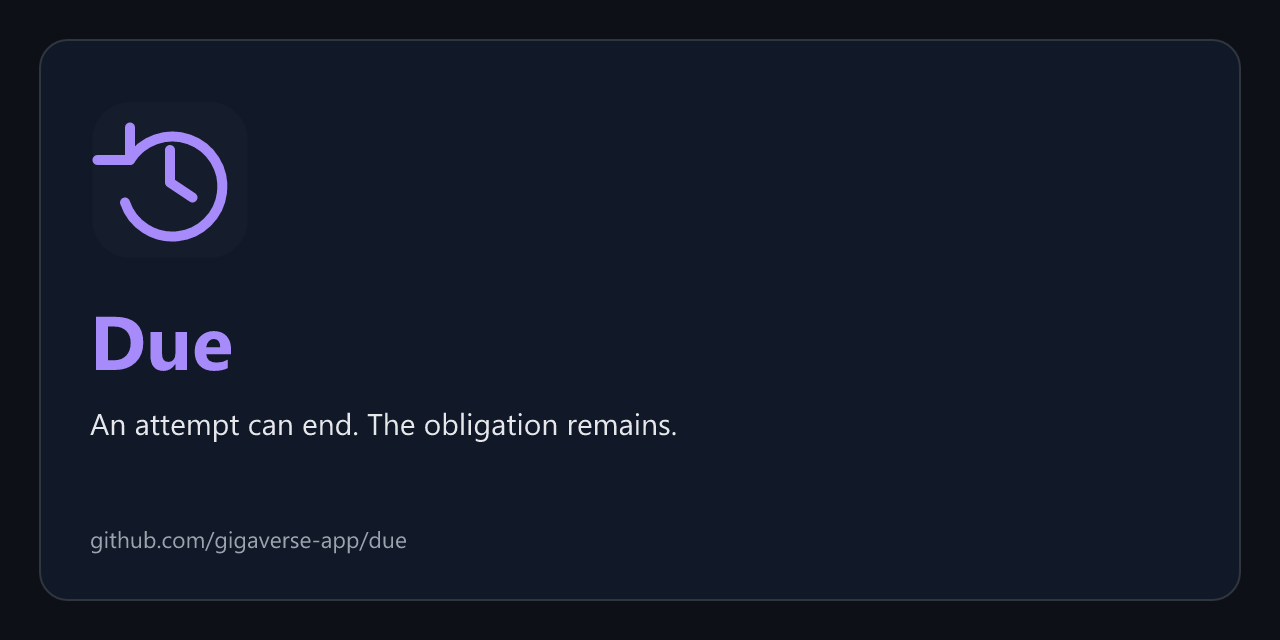
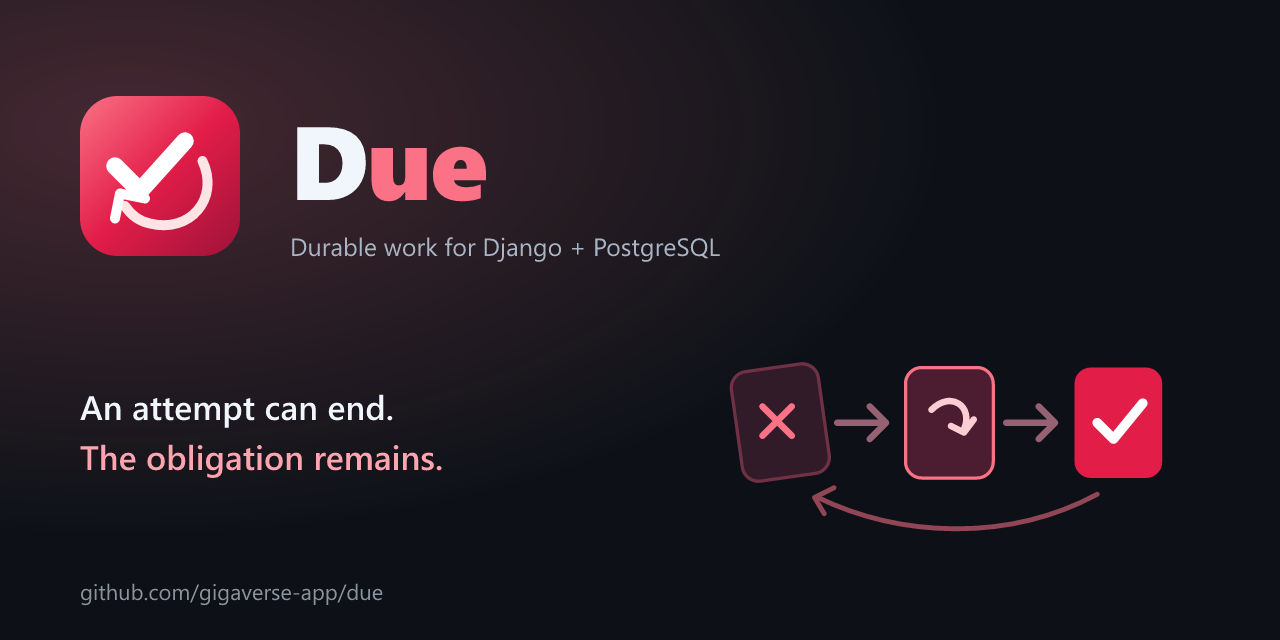
docs(branding): give Due a returning-check identity

diff --git a/scripts/render_brand.py b/scripts/render_brand.py
@@ -17,48 +17,60 @@ def digest(path):
     return sha256(content).hexdigest()
 
 
+def motif() -> str:
+    return """<g stroke-linecap="round" stroke-linejoin="round">
+<rect x="2" y="10" width="27" height="34" rx="5" fill="#311B28" stroke="#713145" transform="rotate(-8 15 27)"/>
+<path d="m10 22 9 9m0-9-9 9" stroke="#FB7185" stroke-width="2"/>
+<path d="M33 27h15m-5-5 5 5-5 5" fill="none" stroke="#966172" stroke-width="2"/>
+<rect x="54" y="10" width="27" height="34" rx="5" fill="#4C1D31" stroke="#FB7185"/>
+<path d="M62 23c6-6 13-1 10 6m-4-1 4 2 3-4" fill="none" stroke="#FECDD3" stroke-width="2"/>
+<path d="M85 27h15m-5-5 5 5-5 5" fill="none" stroke="#966172" stroke-width="2"/>
+<rect x="106" y="10" width="27" height="34" rx="5" fill="#E11D48"/>
+<path d="m113 27 5 5 9-11" fill="none" stroke="#FFFFFF" stroke-width="3"/>
+<path d="M113 49c-28 15-61 13-86 1m5-3-6 3 3 5" fill="none" stroke="#FB7185" stroke-width="1.5" opacity="0.55"/>
+</g>"""
+
+
 def render():
     brand = json.loads((ASSETS / "brand.json").read_text(encoding="utf-8"))
     logo = (ASSETS / "logo.svg").read_text(encoding="utf-8")
-    # Nested SVG preserves the original viewBox, including the 256px plugin mark.
-    mark = re.sub(r'\s(?:width|height)="[^"]*"', "", logo, count=2) if "width=" in logo.split(">", 1)[0] else logo
-    mark = mark.replace("<svg ", '<svg x="0" y="0" width="64" height="64" ', 1)
-    name, tagline, color = (escape(brand[k], quote=True) for k in ("name", "tagline", "color"))
-    result = {}
-    for theme, bg, ink, muted, edge in (
-        ("dark", "#0D1117", "#F0F6FC", "#B6C2CF", "#30363D"),
-        ("light", "#FFFFFF", "#1F2328", "#59636E", "#D1D9E0"),
-    ):
-        banner = f'''<svg xmlns="http://www.w3.org/2000/svg" width="720" height="96" viewBox="0 0 720 96" role="img" aria-label="{name}: {tagline}">
+    name, tagline, color, accent = (escape(brand[k], quote=True) for k in ("name", "tagline", "color", "accent"))
+    first, second = (escape(line) for line in brand["banner_lines"])
+    repository = brand["repository"]
+    width, text_x, motif_x = (640, 152, 490)
+    wordmark = f'D<tspan fill="{color}">ue</tspan>'
+    defs = f"""<defs><linearGradient id="brand-glow" x1="0" y1="0" x2="1" y2="0">
+<stop stop-color="{color}" stop-opacity="0.21"/><stop offset="0.55" stop-color="{color}" stop-opacity="0"/>
+</linearGradient><radialGradient id="brand-aura" cx="0.1" cy="0.2" r="0.85">
+<stop stop-color="{color}" stop-opacity="0.23"/><stop offset="0.75" stop-color="{color}" stop-opacity="0"/>
+</radialGradient></defs>"""
+    banner = f'''<svg xmlns="http://www.w3.org/2000/svg" width="{width}" height="64" viewBox="0 0 {width} 64" role="img" aria-label="{name}: {tagline}">
 <title>{name}: {tagline}</title>
-<rect x="1" y="1" width="718" height="94" rx="14" fill="{bg}" stroke="{edge}"/>
-<g transform="translate(16 16)">{mark}</g>
-<text x="98" y="43" font-family="{FONT}" font-size="29" font-weight="700" fill="{ink}">{name}</text>
-<text x="98" y="69" font-family="{FONT}" font-size="15" fill="{muted}">{tagline}</text>
-<path d="M613 48h72" stroke="{edge}" stroke-width="2"/>
-<g fill="{bg}" stroke="{color}" stroke-width="2"><circle cx="613" cy="48" r="11"/><circle cx="649" cy="48" r="11"/><circle cx="685" cy="48" r="11"/></g>
-<path d="m608 48 4 4 7-8" fill="none" stroke="{color}" stroke-width="2"/>
+{defs}
+<rect x="0.5" y="0.5" width="{width - 1}" height="63" rx="10" fill="#0D1117" stroke="#30363D"/>
+<rect x="0.5" y="0.5" width="{width - 1}" height="63" rx="10" fill="url(#brand-glow)"/>
+<g transform="translate(10 12) scale(0.625)">{logo}</g>
+<text x="62" y="41" font-family="{FONT}" font-size="27" font-weight="800" letter-spacing="-0.5" fill="#F0F6FC">{wordmark}</text>
+<text x="{text_x}" y="27" font-family="{FONT}" font-size="12" font-weight="600" fill="#C9D1D9">{first}</text>
+<text x="{text_x}" y="45" font-family="{FONT}" font-size="12" fill="#9CA8B7">{second}</text>
+<g transform="translate({motif_x} 1)">{motif()}</g>
 </svg>
 '''
-        if theme == "dark":
-            result["docs/assets/banner.svg"] = banner
-        if brand["sticky"]:
-            result[f"docs/assets/sticky-banner-{theme}.svg"] = banner
-    result[
-        "docs/assets/social-preview.svg"
-    ] = f'''<svg xmlns="http://www.w3.org/2000/svg" width="1280" height="640" viewBox="0 0 1280 640" role="img" aria-label="{name}: {tagline}">
+    social = f'''<svg xmlns="http://www.w3.org/2000/svg" width="1280" height="640" viewBox="0 0 1280 640" role="img" aria-label="{name}: {tagline}">
 <title>{name}: {tagline}</title>
+{defs}
 <rect width="1280" height="640" fill="#0D1117"/>
-<rect x="40" y="40" width="1200" height="560" rx="28" fill="#111827" stroke="#30363D" stroke-width="2"/>
-<g transform="translate(90 100) scale(2.5)">{mark}</g>
-<text x="90" y="370" font-family="{FONT}" font-size="76" font-weight="700" fill="{color}">{name}</text>
-<text x="90" y="435" font-family="{FONT}" font-size="30" fill="#E5E7EB">{tagline}</text>
-<text x="90" y="548" font-family="{FONT}" font-size="23" fill="#9CA3AF">github.com/gigaverse-app/{brand["repository"]}</text>
+<rect width="1280" height="640" fill="url(#brand-aura)"/>
+<g transform="translate(80 96) scale(2.5)">{logo}</g>
+<text x="290" y="200" font-family="{FONT}" font-size="104" font-weight="800" letter-spacing="-2" fill="#F0F6FC">{wordmark}</text>
+<text x="290" y="256" font-family="{FONT}" font-size="25" fill="#A9B5C4">Durable work for Django + PostgreSQL</text>
+<text x="80" y="420" font-family="{FONT}" font-size="34" font-weight="600" fill="#F0F6FC">{first}</text>
+<text x="80" y="470" font-family="{FONT}" font-size="34" font-weight="600" fill="{accent}">{second}</text>
+<g transform="translate(730 335) scale(3.25)">{motif()}</g>
+<text x="80" y="600" font-family="{FONT}" font-size="22" fill="#8B949E">github.com/gigaverse-app/{repository}</text>
 </svg>
 '''
-    for alias in brand["logo_aliases"]:
-        result[alias] = logo
-    return result
+    return {"docs/assets/banner.svg": banner, "docs/assets/social-preview.svg": social}
 
 
 def main():
@@ -82,7 +94,7 @@ def main():
 
         for source, target, width, height in (
             ("logo.svg", "icon.png", 256, 256),
-            ("banner.svg", "banner.png", 1440, 192),
+            ("banner.svg", "banner.png", 1280, 128),
             ("social-preview.svg", "social-preview.png", 1280, 640),
         ):
             (ASSETS / target).write_bytes(
@@ -104,6 +116,22 @@ def main():
         for name, expected in hashes.items():
             if digest(ASSETS / name) != expected:
                 parser.exit(1, "Regenerate PNG exports with --png: " + name + "\n")
+    # README images need the same cache refresh as documentation image URLs.
+    brand = json.loads((ASSETS / "brand.json").read_text(encoding="utf-8"))
+    image_url = f"https://raw.githubusercontent.com/gigaverse-app/{brand['repository']}/main/docs/assets/banner.png"
+    versioned_url = image_url + "?v=" + digest(ASSETS / "banner.png")[:12]
+    for readme in (ROOT / "README.md", ROOT / "package/README.md"):
+        if not readme.exists():
+            continue
+        text = readme.read_text(encoding="utf-8")
+        if args.png:
+            readme.write_text(
+                re.sub(re.escape(image_url) + r"(?:\?v=[0-9a-f]+)?", versioned_url, text),
+                encoding="utf-8",
+                newline="\n",
+            )
+        elif args.check and versioned_url not in text:
+            parser.exit(1, "Refresh the README banner with --png: " + str(readme) + "\n")
     print("Brand assets verified" if args.check else "Brand assets rendered")
 
 

diff --git a/documentation/publishing.md b/documentation/publishing.md
@@ -100,3 +100,8 @@ GitHub repositories use their owner's avatar; there is no independent repository
 avatar to set. The social card supplies the project's identity when sharing links.
 See [GitHub's social preview instructions](https://docs.github.com/en/repositories/managing-your-repositorys-settings-and-features/customizing-your-repository/customizing-your-repositorys-social-media-preview)
 and [PyPI project metadata](https://docs.pypi.org/project_metadata/).
+
+The renderer also updates the README banner URL with the PNG content hash, so
+GitHub and package-index image caches pick up an artwork change. Keep the banner
+layout specific to the project when editing `scripts/render_brand.py`; canonical
+assets do not require a shared visual template.

diff --git a/package/README.md b/package/README.md
@@ -1,4 +1,4 @@
-![Due: An attempt can end. The obligation remains.](https://raw.githubusercontent.com/gigaverse-app/due/main/docs/assets/banner.png)
+![Due: An attempt can end. The obligation remains.](https://raw.githubusercontent.com/gigaverse-app/due/main/docs/assets/banner.png?v=5df948b984d0)
 
 # Due library
 

diff --git a/README.md b/README.md
@@ -1,4 +1,4 @@
-![Due: An attempt can end. The obligation remains.](https://raw.githubusercontent.com/gigaverse-app/due/main/docs/assets/banner.png)
+![Due: An attempt can end. The obligation remains.](https://raw.githubusercontent.com/gigaverse-app/due/main/docs/assets/banner.png?v=5df948b984d0)
 
 # Due
 
